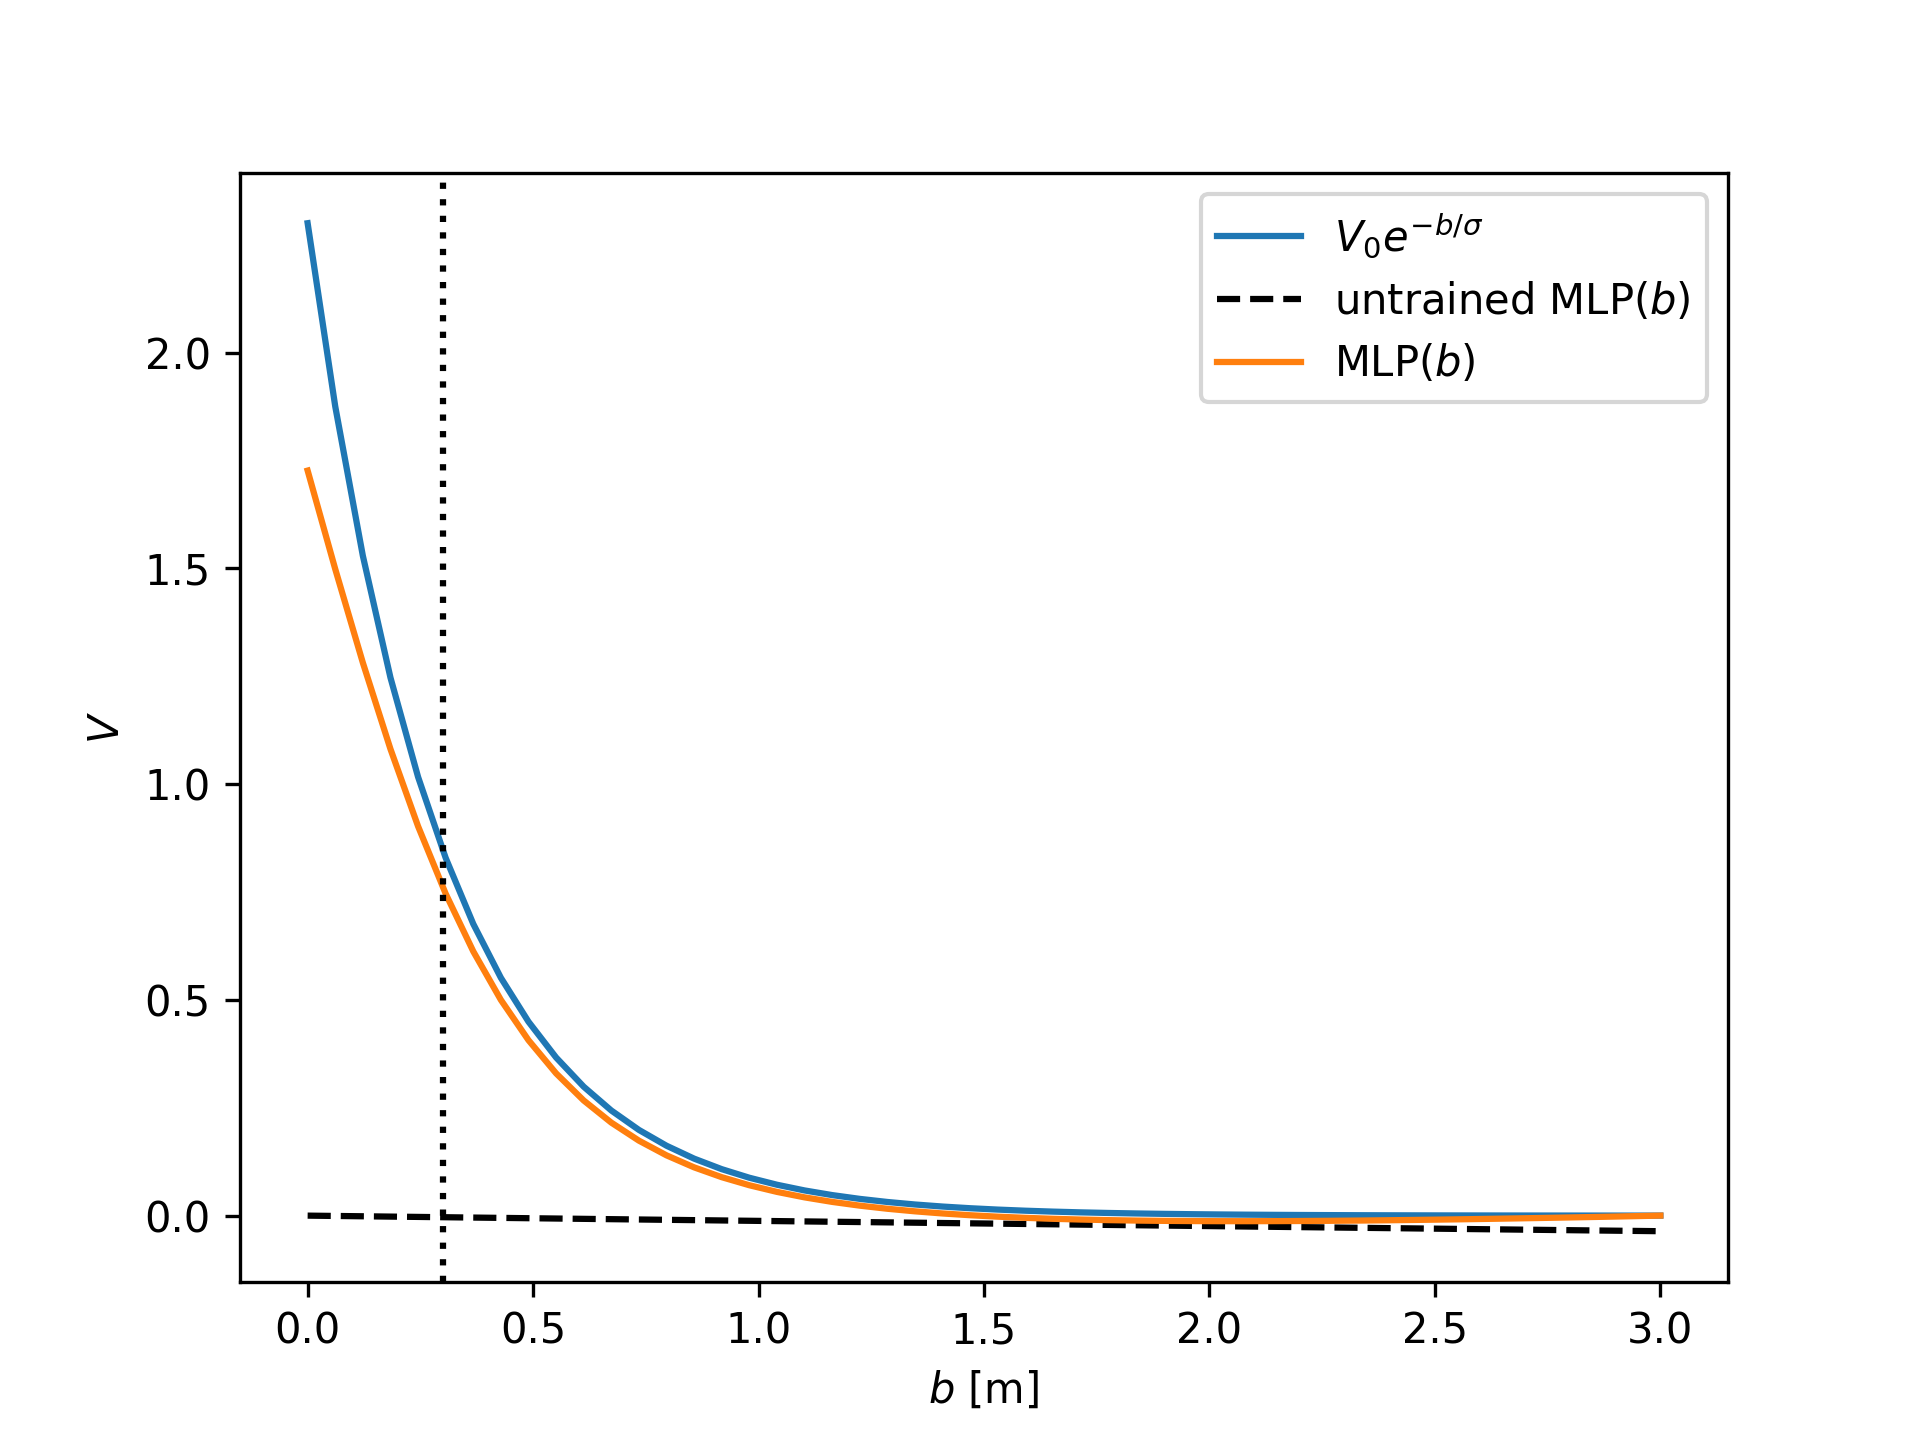
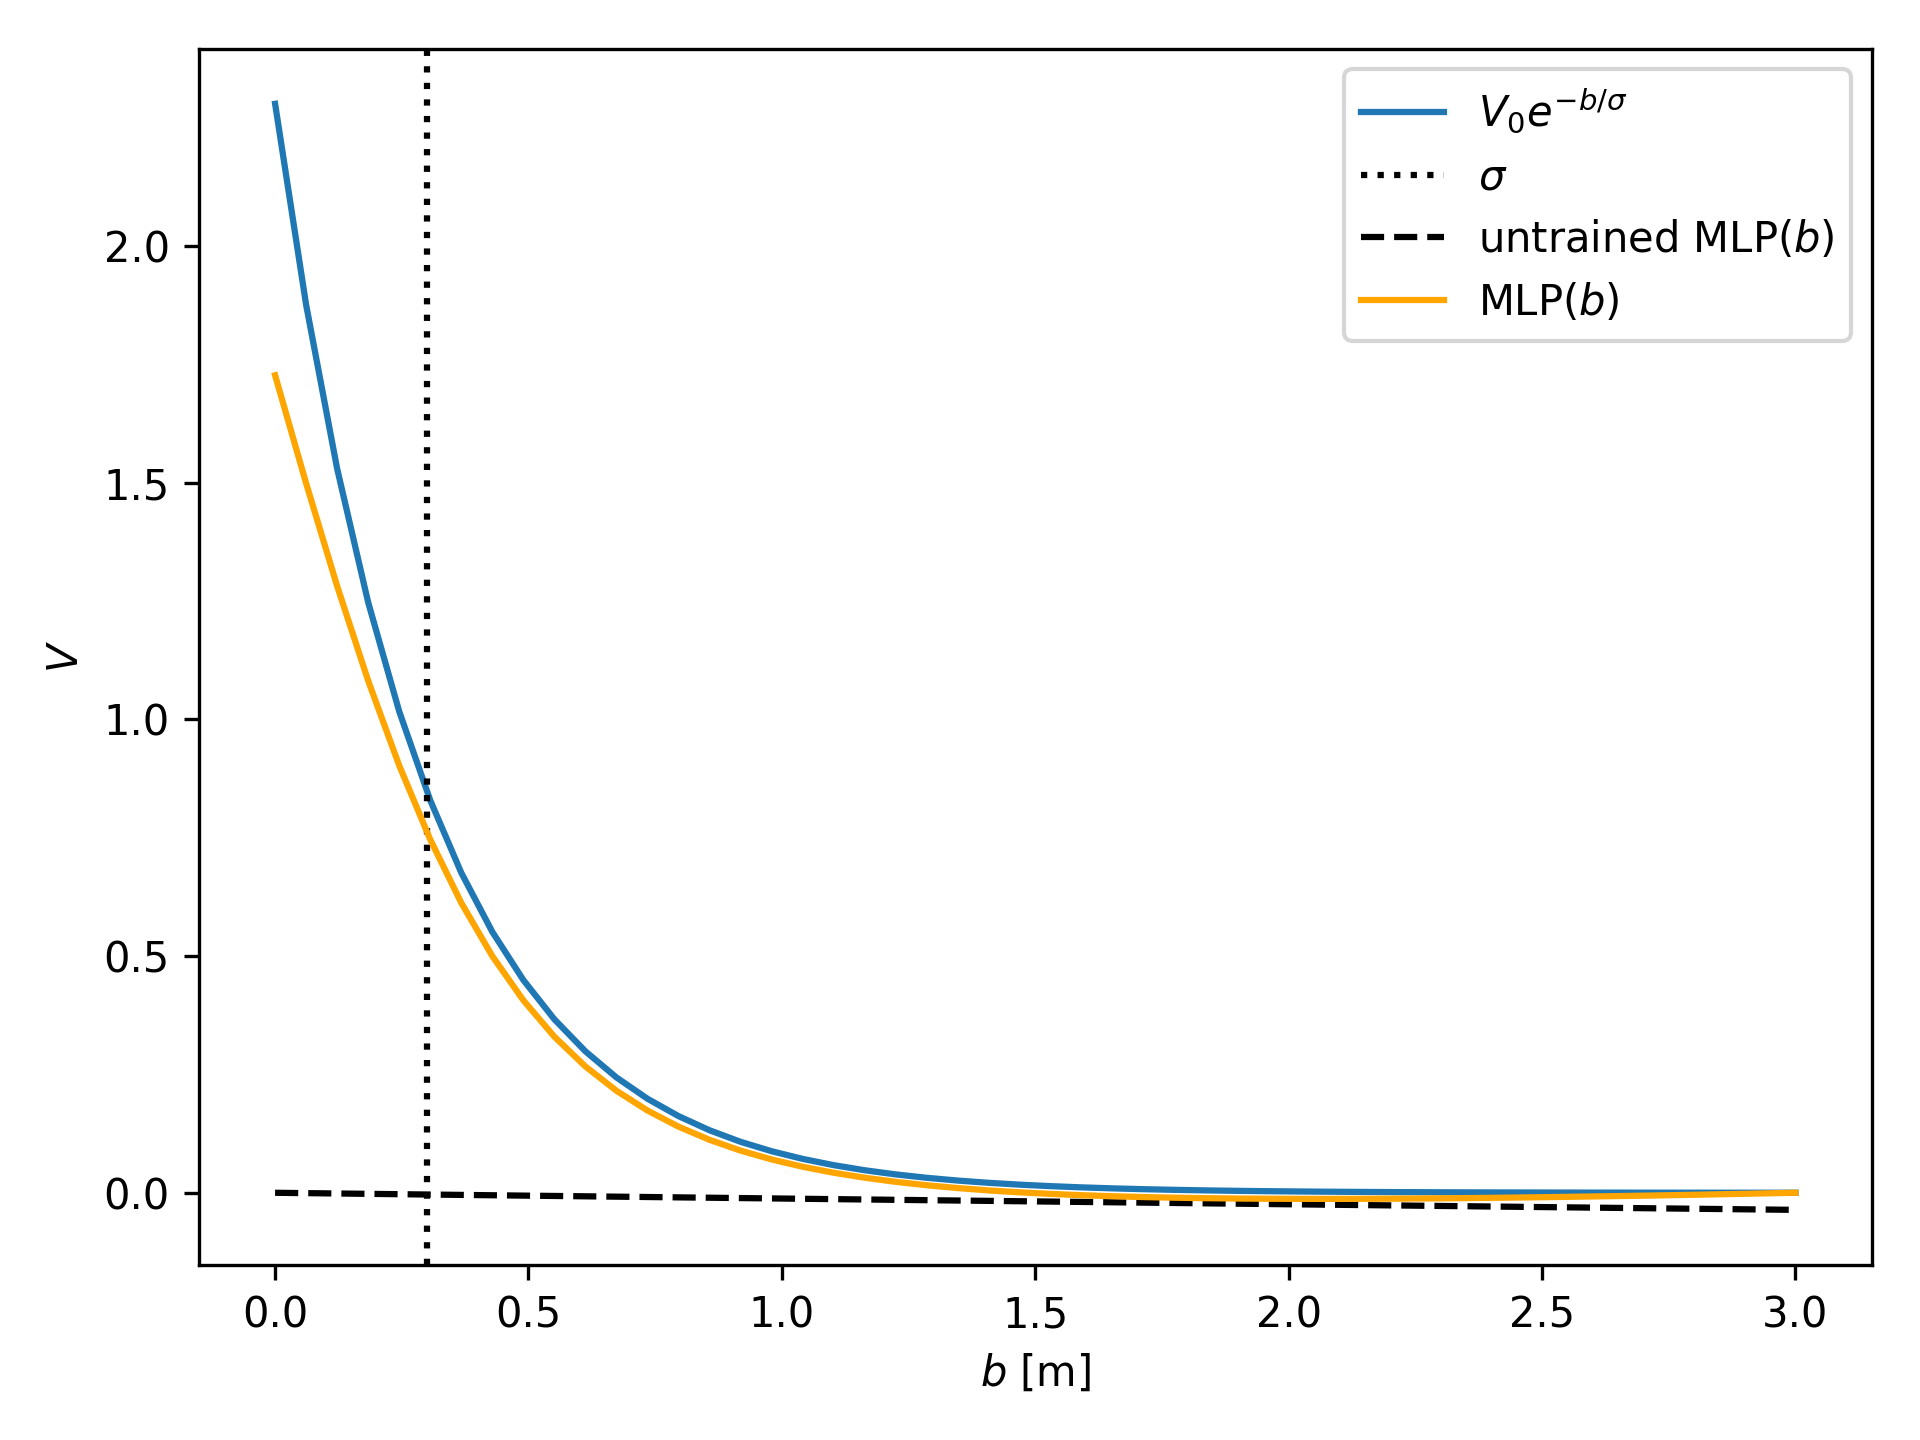
refactor graph plotting

diff --git a/tests/test_pedped_fit.py b/tests/test_pedped_fit.py
@@ -1,6 +1,5 @@
 import matplotlib.pyplot as plt
 import numpy as np
-import pytest
 import torch
 import scipy.optimize
 import socialforce
@@ -86,29 +85,25 @@ def test_opposing_mlp():
     y_initial = V_initial.value_b(torch.from_numpy(b).float()).detach().numpy()
     y_mlp = V.value_b(torch.from_numpy(b).float()).detach().numpy()
 
-    fig, ax = plt.subplots()
-    ax.set_xlabel('$b$ [m]')
-    ax.set_ylabel('$V$')
-    ax.plot(b, y_ref, label=r'$V_0 e^{-b/\sigma}$')
-    ax.plot(b, y_initial, label=r'untrained MLP($b$)',
-            linestyle='dashed', color='black')
-    ax.plot(b, y_mlp, label=r'MLP($b$)')
-    ax.axvline(0.3, color='black', linestyle='dotted')
-    ax.legend()
-    fig.savefig('docs/mlp_v.png', dpi=300)
-    fig.show()
+    with socialforce.show.graph('docs/mlp_v.png') as ax:
+        ax.set_xlabel('$b$ [m]')
+        ax.set_ylabel('$V$')
+        ax.plot(b, y_ref, label=r'$V_0 e^{-b/\sigma}$', color='C0')
+        ax.axvline(0.3, color='black', linestyle='dotted', label=r'$\sigma$')
+        ax.plot(b, y_initial, label=r'untrained MLP($b$)',
+                linestyle='dashed', color='black')
+        ax.plot(b, y_mlp, label=r'MLP($b$)', color='orange')
+        ax.legend()
 
-    fig, ax = plt.subplots()
-    ax.set_xlabel(r'$b$ [m]')
-    ax.set_ylabel(r'$\nabla V$')
-    delta_b = b[1:] - b[:-1]
-    average_b = 0.5 * (b[:-1] + b[1:])
-    ax.plot(average_b, (y_ref[1:] - y_ref[:-1]) / delta_b, label=r'$V_0 e^{-b/\sigma}$')
-    ax.plot(average_b, (y_initial[1:] - y_initial[:-1]) / delta_b, label=r'untrained MLP($b$)',
-            linestyle='dashed', color='black')
-    ax.plot(average_b, (y_mlp[1:] - y_mlp[:-1]) / delta_b, label=r'MLP($b$)')
-    ax.axvline(0.3, color='black', linestyle='dotted')
-    ax.set_ylim(-4.9, 0.5)
-    ax.legend()
-    fig.savefig('docs/mlp_gradv.png', dpi=300)
-    fig.show()
+    with socialforce.show.graph('docs/mlp_gradv.png') as ax:
+        ax.set_xlabel(r'$b$ [m]')
+        ax.set_ylabel(r'$\nabla V$')
+        delta_b = b[1:] - b[:-1]
+        average_b = 0.5 * (b[:-1] + b[1:])
+        ax.plot(average_b, (y_initial[1:] - y_initial[:-1]) / delta_b, label=r'untrained MLP($b$)',
+                linestyle='dashed', color='black')
+        ax.plot(average_b, (y_mlp[1:] - y_mlp[:-1]) / delta_b, label=r'MLP($b$)', color='orange')
+        ax.plot(average_b, (y_ref[1:] - y_ref[:-1]) / delta_b, label=r'$V_0 e^{-b/\sigma}$', color='C0')
+        ax.axvline(0.3, color='black', linestyle='dotted', label=r'$\sigma$')
+        ax.set_ylim(-4.9, 0.5)
+        ax.legend()

diff --git a/socialforce/show.py b/socialforce/show.py
@@ -28,6 +28,20 @@ def canvas(image_file=None, **kwargs):
 
 
 @contextmanager
+def graph(image_file=None, **kwargs):
+    """Generic matplotlib context."""
+    fig, ax = plt.subplots(**kwargs)
+
+    yield ax
+
+    fig.set_tight_layout(True)
+    if image_file:
+        fig.savefig(image_file, dpi=300)
+    fig.show()
+    plt.close(fig)
+
+
+@contextmanager
 def animation(n, movie_file=None, writer=None, **kwargs):
     """Context for animations."""
     fig, ax = plt.subplots(**kwargs)
